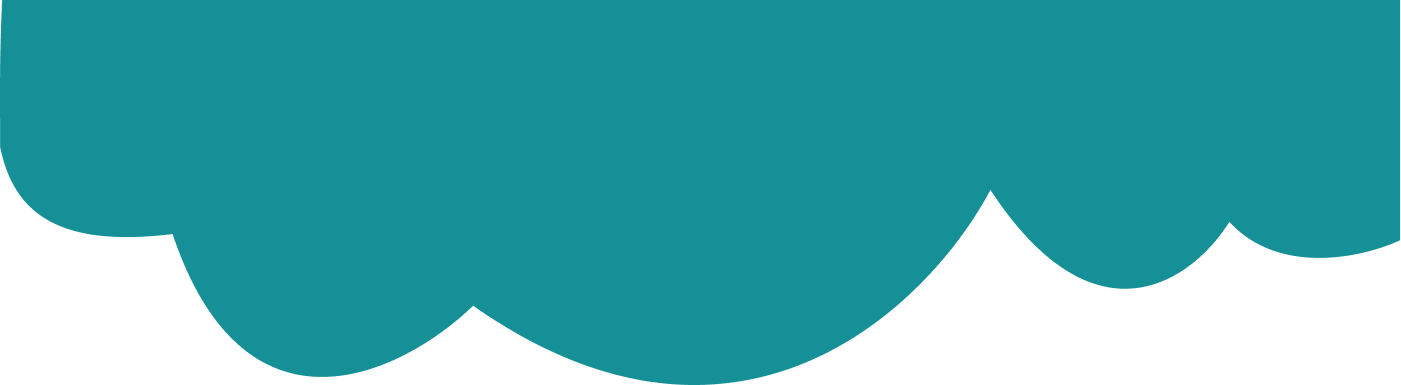
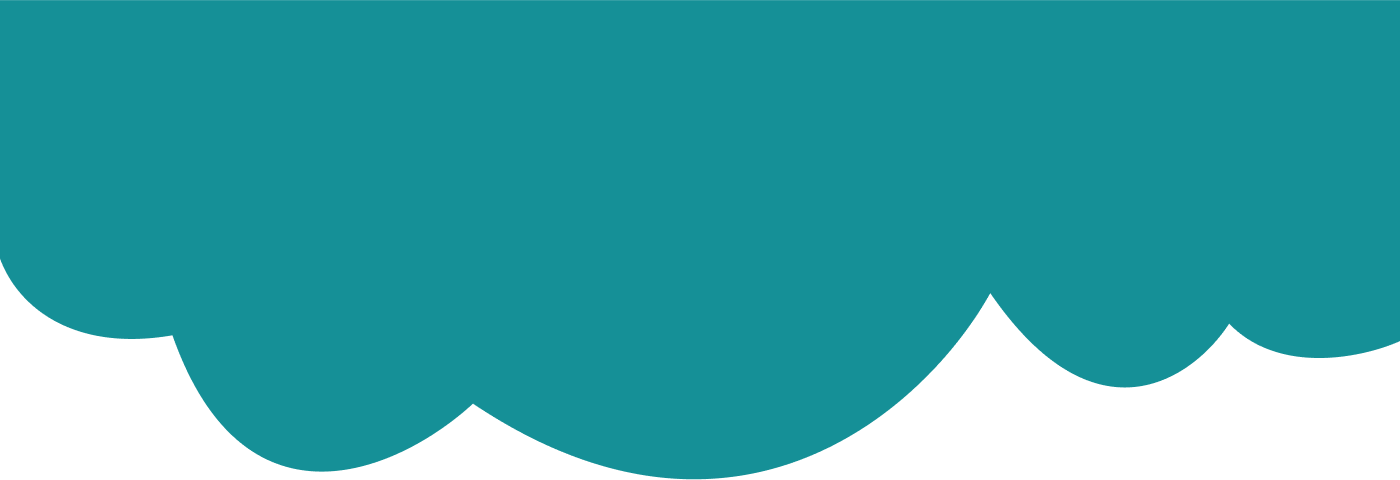
refactor: 💡 Creating components from the elements (#27)
✅ Closes: 19

diff --git a/src/components/About.tsx b/src/components/About.tsx
@@ -1,27 +1,14 @@
-import { motion, useScroll, useTransform } from 'framer-motion'
-import Title from '../ui/Title'
-import Techs from './Techs'
-import { getYearsOld } from '../utils/currentAge'
 import { Fade } from 'react-awesome-reveal'
+import Link from '../ui/Link'
+import Title from '../ui/Title'
 import { content } from '../utils/content'
+import { getYearsOld } from '../utils/currentAge'
+import Techs from './Techs'
 
 export default function About() {
-  const { scrollY } = useScroll()
-  const y1 = useTransform(scrollY, [0, 100], [1, 100])
-  const y2 = useTransform(scrollY, [0, 100], [1, 50])
-
   return (
     <>
-      <section id="about" className="planet-top relative">
-        <motion.div
-          style={{ y: y1, x: 0 }}
-          className="back-cloud w-full h-[247px] overflow-hidden absolute top-[-250px] left-0 z-[-200]"
-        ></motion.div>
-        <motion.div
-          style={{ y: y2, x: 0 }}
-          className="front-cloud w-full h-[385px] absolute top-[-205px] left-0 z-[-100]"
-        ></motion.div>
-
+      <section id="about" className=" ">
         <div className="section-layout">
           <Fade direction="down">
             <Title>Sobre</Title>
@@ -46,24 +33,13 @@ export default function About() {
                   <div>
                     <h3 className="mb-3 text-2xl font-berkshire">Links:</h3>
                     <ul>
-                      <li>
-                        <a
-                          href="https://www.linkedin.com/in/luciana-dss/"
-                          className="link"
-                          target="_blank"
-                        >
-                          Linkedin
-                        </a>
-                      </li>
-                      <li>
-                        <a
-                          href="https://github.com/Luciana-Santos"
-                          className="link"
-                          target="_blank"
-                        >
-                          GitHub
-                        </a>
-                      </li>
+                      {content.sobreLinks.map((link) => {
+                        return (
+                          <li key={link.id}>
+                            <Link name={link.name} path={link.url} />
+                          </li>
+                        )
+                      })}
                     </ul>
                   </div>
                   <div>

diff --git a/src/components/Header.tsx b/src/components/Header.tsx
@@ -1,7 +1,8 @@
 import { motion, useScroll, useTransform } from 'framer-motion'
-import Nav from './Nav'
 import { Fade } from 'react-awesome-reveal'
 import { PiDownloadSimpleBold } from 'react-icons/pi'
+import Button from '../ui/Button'
+import Nav from './Nav'
 
 export default function Header() {
   const { scrollY } = useScroll()
@@ -27,19 +28,19 @@ export default function Header() {
           </Fade>
           <Fade direction="right">
             <div className="flex flex-wrap gap-y-5 gap-x-10 justify-center items-center">
-              <a
-                href="#contact"
-                className="btn bg-ltOrange text-vdBlue btn-call-action"
+              <Button
+                path="#contact"
+                className="bg-ltOrange text-vdBlue btn-call-action"
               >
                 Contato
-              </a>
-              <a
-                href="https://raw.githubusercontent.com/Luciana-Santos/Lucianadss-portfolio/main/src/assets/curriculo/Luciana-curriculo.pdf"
-                className="btn flex items-center gap-2 text-ltOrange border-[3px] border-ltOrange hover:bg-dkViolet hover:border-dkViolet"
+              </Button>
+              <Button
+                path="https://raw.githubusercontent.com/Luciana-Santos/Lucianadss-portfolio/main/src/assets/curriculo/Luciana-curriculo.pdf"
+                className="flex items-center gap-2 text-ltOrange border-[3px] border-ltOrange hover:bg-dkViolet hover:border-dkViolet"
               >
                 <PiDownloadSimpleBold />
                 Currículo
-              </a>
+              </Button>
             </div>
           </Fade>
         </div>

diff --git a/src/App.tsx b/src/App.tsx
@@ -1,20 +1,32 @@
+import { motion, useScroll, useTransform } from 'framer-motion'
 import { useContext } from 'react'
 import About from './components/About'
-import Header from './components/Header'
-import Projects from './components/Projects'
-import Modal from './ui/modal/Modal'
-import ModalContent from './ui/modal/ModalContent'
-import { ModalProjectContext } from './store/ModalContext'
 import Contact from './components/Contact'
 import Footer from './components/Footer'
+import Header from './components/Header'
+import Projects from './components/Projects'
+import { ModalProjectContext } from './store/ModalContext'
+import Modal from './ui/modal/Modal'
+import ModalContent from './ui/modal/ModalContent'
 
 export default function App() {
   const { isModalOpen } = useContext(ModalProjectContext)
+  const { scrollY } = useScroll()
+  const y1 = useTransform(scrollY, [0, 100], [1, 100])
+  const y2 = useTransform(scrollY, [0, 100], [1, 50])
 
   return (
     <>
       <Header />
-      <main>
+      <main className="relative planet-top">
+        <motion.div
+          style={{ y: y1, x: 0 }}
+          className="back-cloud w-full h-[420px] overflow-hidden absolute top-[-250px] left-0 z-[-200]"
+        ></motion.div>
+        <motion.div
+          style={{ y: y2, x: 0 }}
+          className="front-cloud w-full h-[420px] absolute top-[-205px] left-0 z-[-100]"
+        ></motion.div>
         <About />
         <Projects />
         {isModalOpen.show && (

diff --git a/src/ui/modal/ModalContent.tsx b/src/ui/modal/ModalContent.tsx
@@ -2,6 +2,7 @@ import { useContext } from 'react'
 import { ModalProjectContext } from '../../store/ModalContext'
 import { motion } from 'framer-motion'
 import Techs from '../../components/Techs'
+import Link from '../Link'
 
 export default function ModalContent() {
   const { isModalOpen } = useContext(ModalProjectContext)
@@ -26,22 +27,10 @@ export default function ModalContent() {
 
           <ul className="flex gap-5">
             <li>
-              <a
-                href={isModalOpen.project?.links.live}
-                target="_blank"
-                className="link"
-              >
-                Live
-              </a>
+              <Link path={isModalOpen.project?.links?.live}>Live</Link>
             </li>
             <li>
-              <a
-                href={isModalOpen.project?.links.code}
-                target="_blank"
-                className="link"
-              >
-                Code
-              </a>
+              <Link path={isModalOpen.project?.links?.code}>Code</Link>
             </li>
           </ul>
         </div>

diff --git a/src/utils/content.ts b/src/utils/content.ts
@@ -49,13 +49,38 @@ export const content = {
     },
     {
       id: Math.round(Math.random() * 99999),
-      name: 'React',
+      name: 'React.js',
       icon: 'https://raw.githubusercontent.com/Luciana-Santos/Lucianadss-portfolio/main/src/assets/img/react-icon.png',
     },
     {
       id: Math.round(Math.random() * 99999),
       name: 'Styled Components',
       icon: 'https://i.postimg.cc/pTspXBPg/styled-icon.png',
+    },
+    {
+      id: Math.round(Math.random() * 99999),
+      name: 'Express',
+      icon: '/assets/express-icon.png',
+    },
+    {
+      id: Math.round(Math.random() * 99999),
+      name: 'Next.js',
+      icon: '/assets/nextjs-icon.png',
+    },
+    {
+      id: Math.round(Math.random() * 99999),
+      name: 'Node',
+      icon: '/assets/node-icon.png',
+    },
+    {
+      id: Math.round(Math.random() * 99999),
+      name: 'MongoDB',
+      icon: '/assets/mongodb-icon.png',
+    },
+    {
+      id: Math.round(Math.random() * 99999),
+      name: 'Tailwindcss',
+      icon: '/assets/tailwind-icon.png',
     },
   ],
 }

diff --git a/src/components/Footer.tsx b/src/components/Footer.tsx
@@ -1,3 +1,4 @@
+import Link from '../ui/Link'
 import { getCurrentYear } from '../utils/currentYear'
 
 export default function Footer() {
@@ -6,14 +7,9 @@ export default function Footer() {
       <div className="container">
         <p className="text-center">
           Boa parte dos direitos reservados. |{' '}
-          <a
-            href="https://github.com/Luciana-Santos"
-            target="_blank"
-            className="link"
-          >
-            {' '}
+          <Link path="https://github.com/Luciana-Santos" target="_blank">
             Luciana Santos©
-          </a>{' '}
+          </Link>{' '}
           {getCurrentYear()}
         </p>
       </div>

diff --git a/src/components/Projects.tsx b/src/components/Projects.tsx
@@ -17,8 +17,8 @@ export default function Projects() {
         </div>
       </div>
 
-      <div className="w-full h-[247px] absolute left-0 z-[-200] bottom-[-166px] back-cloud-contact"></div>
-      <div className="w-full h-[385px] absolute left-0 z-[-100] front-cloud-contact bottom-[-185px]"></div>
+      <div className="w-full h-[422px] absolute left-0 z-[-200] bottom-[-166px] back-cloud-contact"></div>
+      <div className="w-full h-[427px] absolute left-0 z-[-100] front-cloud-contact bottom-[-185px]"></div>
     </section>
   )
 }

diff --git a/src/components/Contact.tsx b/src/components/Contact.tsx
@@ -12,7 +12,10 @@ export default function Contact() {
       <div className="flex items-center  flex-col-reverse md:flex-row justify-between gap-14">
         <Fade direction="left">
           <div>
-            <img src="/assets/contact-img.png" alt="" />
+            <img
+              src="/assets/contact-img.png"
+              alt="Space image with a paper airplane"
+            />
           </div>
         </Fade>
 

diff --git a/src/components/ProjectItem.tsx b/src/components/ProjectItem.tsx
@@ -28,7 +28,7 @@ export default function ProjectItem({ data }: { data: ProjectProps }) {
       transition={{ type: 'spring', stiffness: 400, damping: 17 }}
     >
       <div>
-        <img src={data.imagem} alt="" />
+        <img src={data.imagem} alt={`Projeto ${data.title}`} />
       </div>
       <div className="bg-dkViolet p-4">
         <h4 className="leading-[1]">{data.title}</h4>

diff --git a/src/ui/Button.tsx b/src/ui/Button.tsx
@@ -1,0 +1,18 @@
+type YButton = {
+  path: string
+  children: React.ReactNode
+  className?: string
+}
+
+export default function Button({
+  path,
+  children,
+  className,
+  ...props
+}: YButton) {
+  return (
+    <a href={path} className={`btn ${className}`} {...props}>
+      {children}
+    </a>
+  )
+}

diff --git a/src/ui/Link.tsx b/src/ui/Link.tsx
@@ -1,0 +1,14 @@
+type TLink = {
+  name?: string
+  path: string | undefined
+  children?: React.ReactNode
+  target?: string
+}
+
+export default function Link({ name, path, children, ...props }: TLink) {
+  return (
+    <a href={path} className="link" {...props}>
+      {children || name}
+    </a>
+  )
+}
